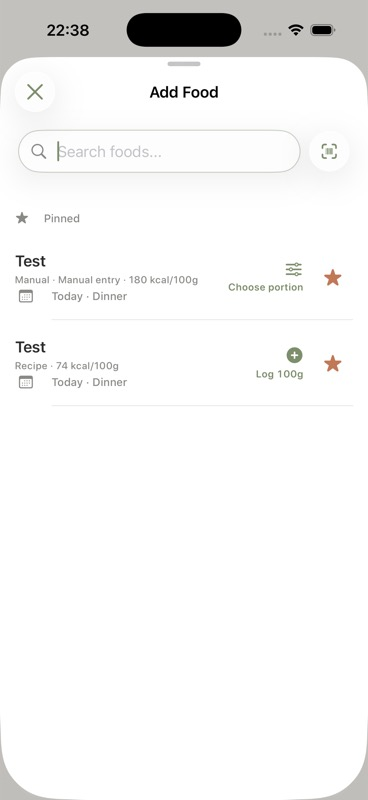
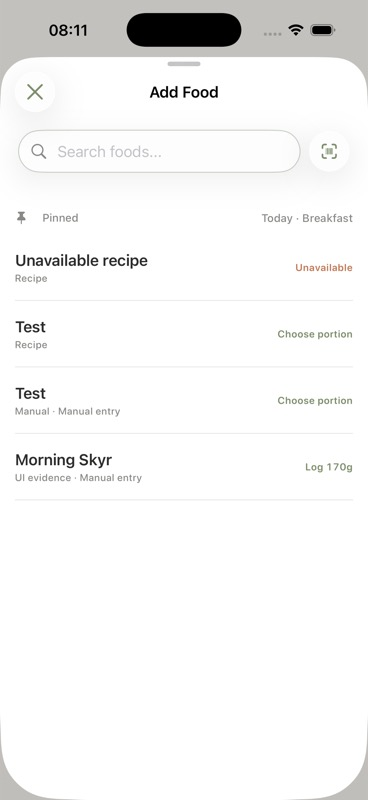
refactor: simplify pinned food discovery UI

diff --git a/Caloryn/Views/FoodLog/PinnedFoodRowView.swift b/Caloryn/Views/FoodLog/PinnedFoodRowView.swift
@@ -9,8 +9,9 @@ struct PinnedFoodRowView: View {
 
     private var identityDescription: String {
         let type = food.isRecipe ? "Recipe" : (food.isCustom ? "Manual entry" : "Saved food")
-        let prefix = food.brand.flatMap { $0.isEmpty ? nil : $0 }.map { "\($0) · \(type)" } ?? type
-        return "\(prefix) · \(Int(food.caloriesPer100g.rounded())) kcal/100g"
+        return food.brand
+            .flatMap { $0.isEmpty ? nil : $0 }
+            .map { "\($0) · \(type)" } ?? type
     }
 
     private var actionDescription: String {
@@ -36,119 +37,45 @@ struct PinnedFoodRowView: View {
     }
 
     var body: some View {
-        HStack(spacing: 10) {
-            Button(action: onLog) {
-                HStack(spacing: 12) {
-                    VStack(alignment: .leading, spacing: 4) {
-                        Text(food.name)
-                            .font(CalorynTheme.itemTitle)
-                            .foregroundStyle(CalorynTheme.textPrimary)
-                            .lineLimit(1)
+        Button(action: onLog) {
+            HStack(spacing: 12) {
+                VStack(alignment: .leading, spacing: 3) {
+                    Text(food.name)
+                        .font(CalorynTheme.itemTitle)
+                        .foregroundStyle(CalorynTheme.textPrimary)
+                        .lineLimit(1)
 
-                        Text(identityDescription)
-                            .font(CalorynTheme.microCaption)
-                            .foregroundStyle(CalorynTheme.textSecondary)
-                            .lineLimit(1)
-
-                        Label(destinationDescription, systemImage: "calendar")
-                            .font(CalorynTheme.caption)
-                            .foregroundStyle(CalorynTheme.textSecondary)
-                    }
-
-                    Spacer(minLength: 8)
-
-                    VStack(alignment: .trailing, spacing: 4) {
-                        Image(systemName: actionIcon)
-                            .font(CalorynTheme.inlineIcon)
-                            .foregroundStyle(actionColor)
-
-                        Text(actionDescription)
-                            .font(CalorynTheme.numericMicroCaptionEmphasized)
-                            .foregroundStyle(actionColor)
-                            .multilineTextAlignment(.trailing)
-                    }
+                    Text(identityDescription)
+                        .font(CalorynTheme.microCaption)
+                        .foregroundStyle(CalorynTheme.textSecondary)
+                        .lineLimit(1)
                 }
-                .contentShape(Rectangle())
-            }
-            .buttonStyle(.plain)
-            .accessibilityElement(children: .ignore)
-            .accessibilityLabel("\(food.name), \(identityDescription), \(actionDescription), destination \(destinationDescription)")
-            .accessibilityHint(actionHint)
 
+                Spacer(minLength: 8)
+
+                Text(actionDescription)
+                    .font(CalorynTheme.numericMicroCaptionEmphasized)
+                    .foregroundStyle(actionColor)
+                    .multilineTextAlignment(.trailing)
+            }
+            .contentShape(Rectangle())
+        }
+        .buttonStyle(.plain)
+        .accessibilityElement(children: .ignore)
+        .accessibilityLabel("\(food.name), \(identityDescription), \(actionDescription), destination \(destinationDescription)")
+        .accessibilityHint(actionHint)
+        .accessibilityAction(named: "Unpin \(food.name)", onUnpin)
+        .swipeActions(edge: .trailing, allowsFullSwipe: false) {
             Button(action: onUnpin) {
-                Image(systemName: "star.fill")
-                    .font(CalorynTheme.inlineIcon)
-                    .foregroundStyle(CalorynTheme.terracotta)
-                    .frame(width: 44, height: 44)
+                Label("Unpin", systemImage: "pin.slash")
             }
-            .buttonStyle(.plain)
-            .accessibilityLabel("Unpin \(food.name)")
-            .accessibilityHint("Removes this item from favorites")
+            .tint(CalorynTheme.terracotta)
         }
-        .padding(.vertical, 4)
-    }
-
-    private var actionIcon: String {
-        switch plan.action {
-        case .log: "plus.circle.fill"
-        case .confirmQuantity: "slider.horizontal.3"
-        case .unavailable: "exclamationmark.triangle.fill"
-        }
+        .padding(.vertical, 3)
     }
 
     private var actionColor: Color {
-        switch plan.action {
-        case .unavailable: CalorynTheme.terracotta
-        case .log, .confirmQuantity: CalorynTheme.sage
-        }
-    }
-}
-
-struct PinnedFoodsEmptyRow: View {
-    var body: some View {
-        HStack(alignment: .top, spacing: 12) {
-            Image(systemName: "star")
-                .font(CalorynTheme.inlineIcon)
-                .foregroundStyle(CalorynTheme.textSecondary)
-                .frame(width: 28, height: 28)
-
-            VStack(alignment: .leading, spacing: 3) {
-                Text("No Pinned Foods")
-                    .font(CalorynTheme.itemTitle)
-                    .foregroundStyle(CalorynTheme.textPrimary)
-                Text("Tap a star beside a saved food or recipe to keep it here.")
-                    .font(CalorynTheme.caption)
-                    .foregroundStyle(CalorynTheme.textSecondary)
-            }
-        }
-        .padding(.vertical, 6)
-        .accessibilityElement(children: .combine)
-    }
-}
-
-struct SearchEmptyRow: View {
-    let title: String
-    let message: String
-    let systemImage: String
-
-    var body: some View {
-        HStack(alignment: .top, spacing: 12) {
-            Image(systemName: systemImage)
-                .font(CalorynTheme.inlineIcon)
-                .foregroundStyle(CalorynTheme.textSecondary)
-                .frame(width: 28, height: 28)
-
-            VStack(alignment: .leading, spacing: 3) {
-                Text(title)
-                    .font(CalorynTheme.itemTitle)
-                    .foregroundStyle(CalorynTheme.textPrimary)
-                Text(message)
-                    .font(CalorynTheme.caption)
-                    .foregroundStyle(CalorynTheme.textSecondary)
-            }
-        }
-        .padding(.vertical, 6)
-        .accessibilityElement(children: .combine)
+        plan.action == .unavailable ? CalorynTheme.terracotta : CalorynTheme.sage
     }
 }
 

diff --git a/Caloryn/Views/FoodLog/FoodSearchView.swift b/Caloryn/Views/FoodLog/FoodSearchView.swift
@@ -149,7 +149,7 @@ struct FoodSearchView: View {
                 barcodeScannerSheet
             }
             .alert(
-                "Couldn’t Log Favorite",
+                "Couldn’t Log Pinned Food",
                 isPresented: favoriteErrorIsPresented
             ) {
                 Button("OK", role: .cancel) {
@@ -220,62 +220,40 @@ struct FoodSearchView: View {
     }
 
     private var recentFoodsList: some View {
-        Group {
-            if mode.isIngredientSelection && displayedRecentFoods.isEmpty {
-                ContentUnavailableView(
-                    "No Recent Foods",
-                    systemImage: "clock",
-                    description: Text("Search above or create saved foods from My Foods.")
-                )
-            } else {
-                List {
-                    if !mode.isIngredientSelection {
-                        Section {
-                            if pinnedFoods.isEmpty {
-                                PinnedFoodsEmptyRow()
-                            } else {
-                                ForEach(pinnedFoods) { food in
-                                    PinnedFoodRowView(
-                                        food: food,
-                                        plan: pinnedPlan(for: food),
-                                        destinationDescription: destinationDescription,
-                                        onLog: { handlePinnedFoodAction(food) },
-                                        onUnpin: { togglePinned(food) }
-                                    )
-                                }
-                            }
-                        } header: {
-                            Label("Pinned", systemImage: "star.fill")
-                                .font(CalorynTheme.caption)
-                                .foregroundStyle(CalorynTheme.textSecondary)
-                        }
+        List {
+            if !mode.isIngredientSelection && !pinnedFoods.isEmpty {
+                Section {
+                    ForEach(pinnedFoods) { food in
+                        PinnedFoodRowView(
+                            food: food,
+                            plan: pinnedPlan(for: food),
+                            destinationDescription: destinationDescription,
+                            onLog: { handlePinnedFoodAction(food) },
+                            onUnpin: { togglePinned(food) }
+                        )
                     }
-
-                    if displayedRecentFoods.isEmpty {
-                        if pinnedFoods.isEmpty {
-                            Section {
-                                SearchEmptyRow(
-                                    title: "No Recent Foods",
-                                    message: "Search above or create saved foods from My Foods.",
-                                    systemImage: "clock"
-                                )
-                            } header: {
-                                recentSectionHeader
-                            }
-                        }
-                    } else {
-                        Section {
-                            ForEach(displayedRecentFoods) { food in
-                                savedFoodRow(for: food)
-                            }
-                        } header: {
-                            recentSectionHeader
-                        }
+                } header: {
+                    HStack {
+                        Label("Pinned", systemImage: "pin.fill")
+                        Spacer()
+                        Text(destinationDescription)
                     }
+                    .font(CalorynTheme.caption)
+                    .foregroundStyle(CalorynTheme.textSecondary)
                 }
-                .listStyle(.plain)
+            }
+
+            if !displayedRecentFoods.isEmpty {
+                Section {
+                    ForEach(displayedRecentFoods) { food in
+                        savedFoodRow(for: food)
+                    }
+                } header: {
+                    recentSectionHeader
+                }
             }
         }
+        .listStyle(.plain)
     }
 
     private var matchingCustomFoods: [FoodItem] {
@@ -453,14 +431,14 @@ struct FoodSearchView: View {
         Button {
             togglePinned(food)
         } label: {
-            Image(systemName: food.isPinned ? "star.fill" : "star")
+            Image(systemName: food.isPinned ? "pin.fill" : "pin")
                 .font(CalorynTheme.inlineIcon)
                 .foregroundStyle(food.isPinned ? CalorynTheme.terracotta : CalorynTheme.textSecondary)
                 .frame(width: 44, height: 44)
         }
         .buttonStyle(.plain)
         .accessibilityLabel(food.isPinned ? "Unpin \(food.name)" : "Pin \(food.name)")
-        .accessibilityHint(food.isPinned ? "Removes this item from favorites" : "Adds this item to favorites")
+        .accessibilityHint(food.isPinned ? "Removes this item from pinned foods" : "Adds this item to pinned foods")
     }
 
     private var recentSectionHeader: some View {
@@ -515,7 +493,7 @@ struct FoodSearchView: View {
                 modelContext: modelContext
             )
         } catch {
-            favoriteErrorMessage = "Your favorite couldn’t be updated. Please try again."
+            favoriteErrorMessage = "Your pin couldn’t be updated. Please try again."
         }
     }
 

diff --git a/Caloryn/Views/FoodLog/PortionPickerView.swift b/Caloryn/Views/FoodLog/PortionPickerView.swift
@@ -224,12 +224,12 @@ struct PortionPickerView: View {
             if !isNewFood {
                 ToolbarItem(placement: .topBarTrailing) {
                     Button(action: togglePinned) {
-                        Image(systemName: foodItem.isPinned ? "star.fill" : "star")
+                        Image(systemName: foodItem.isPinned ? "pin.fill" : "pin")
                             .font(CalorynTheme.toolbarIcon)
                             .foregroundStyle(foodItem.isPinned ? CalorynTheme.terracotta : CalorynTheme.sage)
                     }
                     .accessibilityLabel(foodItem.isPinned ? "Unpin \(foodItem.name)" : "Pin \(foodItem.name)")
-                    .accessibilityHint(foodItem.isPinned ? "Removes this item from favorites" : "Adds this item to favorites")
+                    .accessibilityHint(foodItem.isPinned ? "Removes this item from pinned foods" : "Adds this item to pinned foods")
                 }
             }
         }
@@ -254,7 +254,7 @@ struct PortionPickerView: View {
         } message: {
             Text("Remove \(foodItem.name) from your log?")
         }
-        .alert("Couldn’t Update Favorite", isPresented: favoriteErrorIsPresented) {
+        .alert("Couldn’t Update Pin", isPresented: favoriteErrorIsPresented) {
             Button("OK", role: .cancel) {
                 favoriteErrorMessage = nil
             }
@@ -538,7 +538,7 @@ struct PortionPickerView: View {
                 modelContext: modelContext
             )
         } catch {
-            favoriteErrorMessage = "Your favorite couldn’t be updated. Please try again."
+            favoriteErrorMessage = "Your pin couldn’t be updated. Please try again."
         }
     }
 

diff --git a/Caloryn/Views/MyFoods/MyFoodsView.swift b/Caloryn/Views/MyFoods/MyFoodsView.swift
@@ -52,7 +52,7 @@ struct MyFoodsView: View {
                 RecipeFormView(existingRecipe: recipe)
                     .presentationDragIndicator(.visible)
             }
-            .alert("Couldn’t Update Favorite", isPresented: favoriteErrorIsPresented) {
+            .alert("Couldn’t Update Pin", isPresented: favoriteErrorIsPresented) {
                 Button("OK", role: .cancel) {
                     favoriteErrorMessage = nil
                 }
@@ -177,7 +177,7 @@ struct MyFoodsView: View {
         Button {
             togglePinned(food)
         } label: {
-            Label(food.isPinned ? "Unpin" : "Pin", systemImage: food.isPinned ? "star.slash" : "star")
+            Label(food.isPinned ? "Unpin" : "Pin", systemImage: food.isPinned ? "pin.slash" : "pin")
         }
         .tint(food.isPinned ? CalorynTheme.textSecondary : CalorynTheme.terracotta)
     }
@@ -190,7 +190,7 @@ struct MyFoodsView: View {
                 modelContext: modelContext
             )
         } catch {
-            favoriteErrorMessage = "Your favorite couldn’t be updated. Please try again."
+            favoriteErrorMessage = "Your pin couldn’t be updated. Please try again."
         }
     }
 

diff --git a/Caloryn/Services/PinnedFoodLogging.swift b/Caloryn/Services/PinnedFoodLogging.swift
@@ -25,11 +25,11 @@ enum PinnedFoodLogging {
         var errorDescription: String? {
             switch self {
             case .stalePlan:
-                "This favorite changed. Please try again."
+                "This pinned food changed. Please try again."
             case .quantityRequired:
                 "Choose a valid quantity before logging."
             case .unavailable:
-                "This favorite is unavailable. Edit or unpin it before logging."
+                "This pinned food is unavailable. Edit or unpin it before logging."
             }
         }
     }

diff --git a/Caloryn/Views/FoodLog/PinnedPortionConfirmationView.swift b/Caloryn/Views/FoodLog/PinnedPortionConfirmationView.swift
@@ -125,7 +125,7 @@ struct PinnedPortionConfirmationView: View {
                     }
                 }
             }
-            .alert("Couldn’t Log Favorite", isPresented: errorIsPresented) {
+            .alert("Couldn’t Log Pinned Food", isPresented: errorIsPresented) {
                 Button("OK", role: .cancel) {
                     errorMessage = nil
                 }

diff --git a/docs/screenshots/issue-69/README.md b/docs/screenshots/issue-69/README.md
@@ -1,13 +1,13 @@
 # Issue #69 UI evidence
 
-Captured on an iPhone 17 Pro simulator running iOS 26.5.
+Captured on an iPhone 17 Pro simulator running iOS 26.4.
 
 | State | Evidence |
 | --- | --- |
-| No pinned favorites | ![Empty pinned favorites state](empty-pinned-foods.jpg) |
-| Pinned favorite without a reusable portion | ![Pinned favorite requiring quantity](pinned-needs-quantity.jpg) |
+| Absent Pinned and Recent sections stay hidden | ![Hidden empty sections](empty-pinned-foods.jpg) |
+| Simplified pinned row without a reusable portion | ![Pinned food requiring quantity](pinned-needs-quantity.jpg) |
 | Compact quantity confirmation with explicit destination | ![Quantity confirmation](quantity-confirmation.jpg) |
 | One-tap last-portion action with explicit meal and date | ![One-tap last portion](one-tap-last-portion.jpg) |
 | Duplicate names remain distinct and show different action states | ![Duplicate names and action states](duplicate-names-and-states.jpg) |
-| Unavailable favorite is retained and clearly disabled | ![Unavailable favorite](unavailable-favorite.jpg) |
-| Unavailable action explains how to recover | ![Unavailable favorite alert](unavailable-favorite-alert.jpg) |
+| Unavailable pinned food is retained and clearly labeled | ![Unavailable pinned food](unavailable-favorite.jpg) |
+| Unavailable action explains how to recover | ![Unavailable pinned food alert](unavailable-favorite-alert.jpg) |
